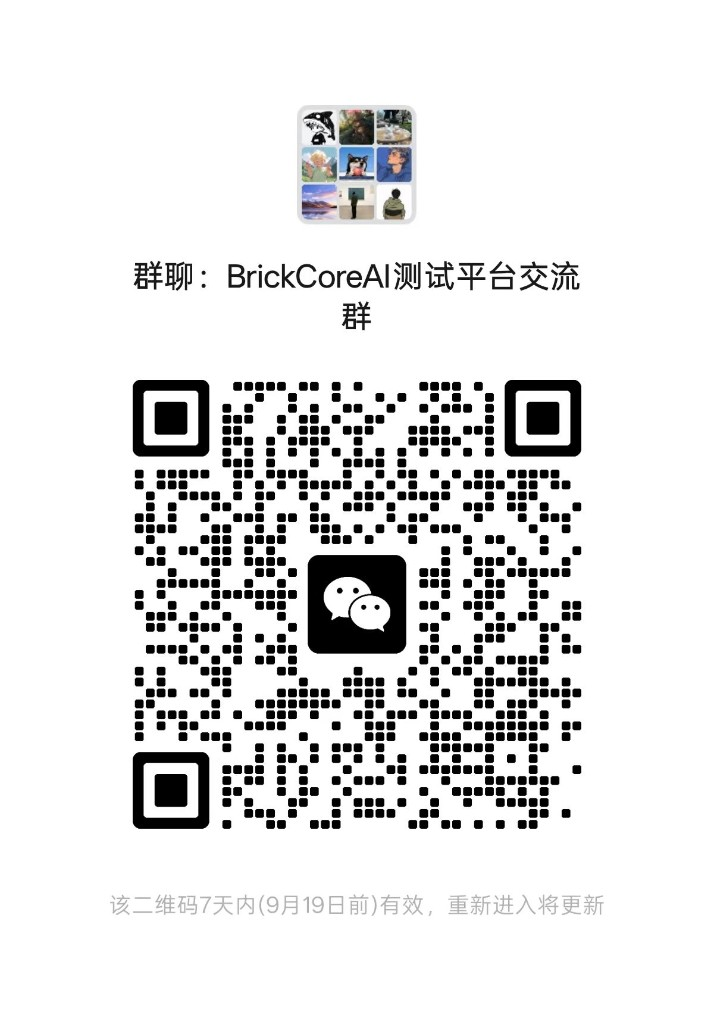
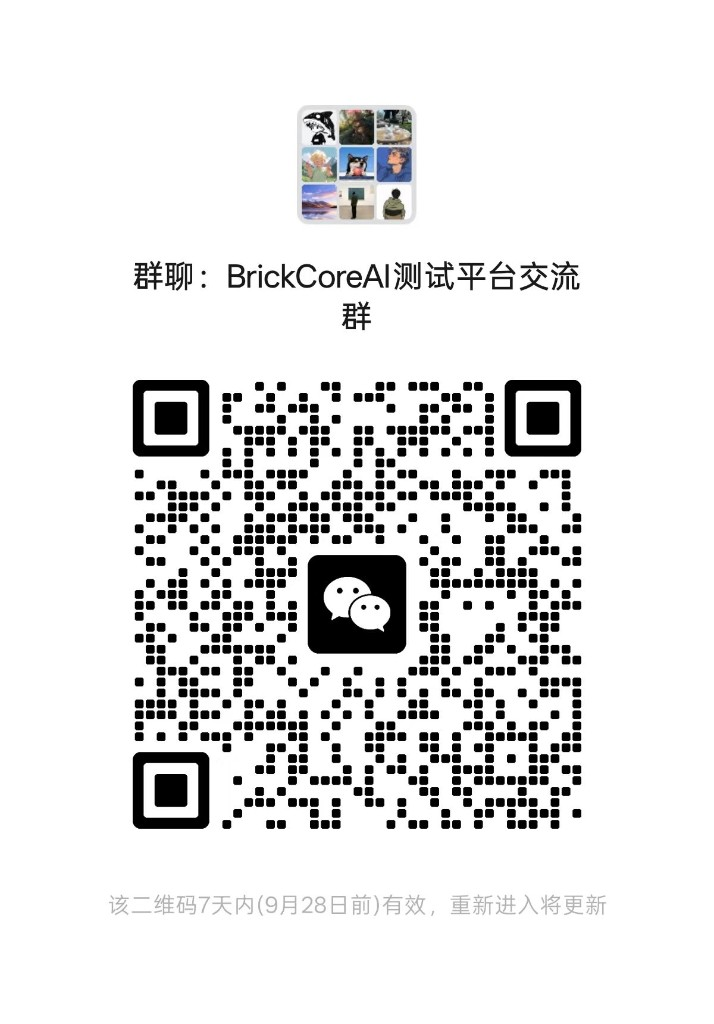
换群二维码
有兴趣的可以加群，或加我本人微信沟通。

diff --git a/docs-site/index.md b/docs-site/index.md
@@ -60,7 +60,7 @@
 **加群交流**
 
 扫码加入 **BrickCoreAI 测试平台交流群**，交流使用问题、部署与版本动态。  
-二维码约 7 天有效（当前至 8 月 29 日前），过期请以页面最新码为准。
+二维码约 7 天有效（当前至 9 月 28 日前），过期请以页面最新码为准。
 
 <img src="../assets/readme/image-wechat-group-brickcore.png" width="200" alt="BrickCoreAI 测试平台交流群" /><br />
 <sub>微信加群</sub>
